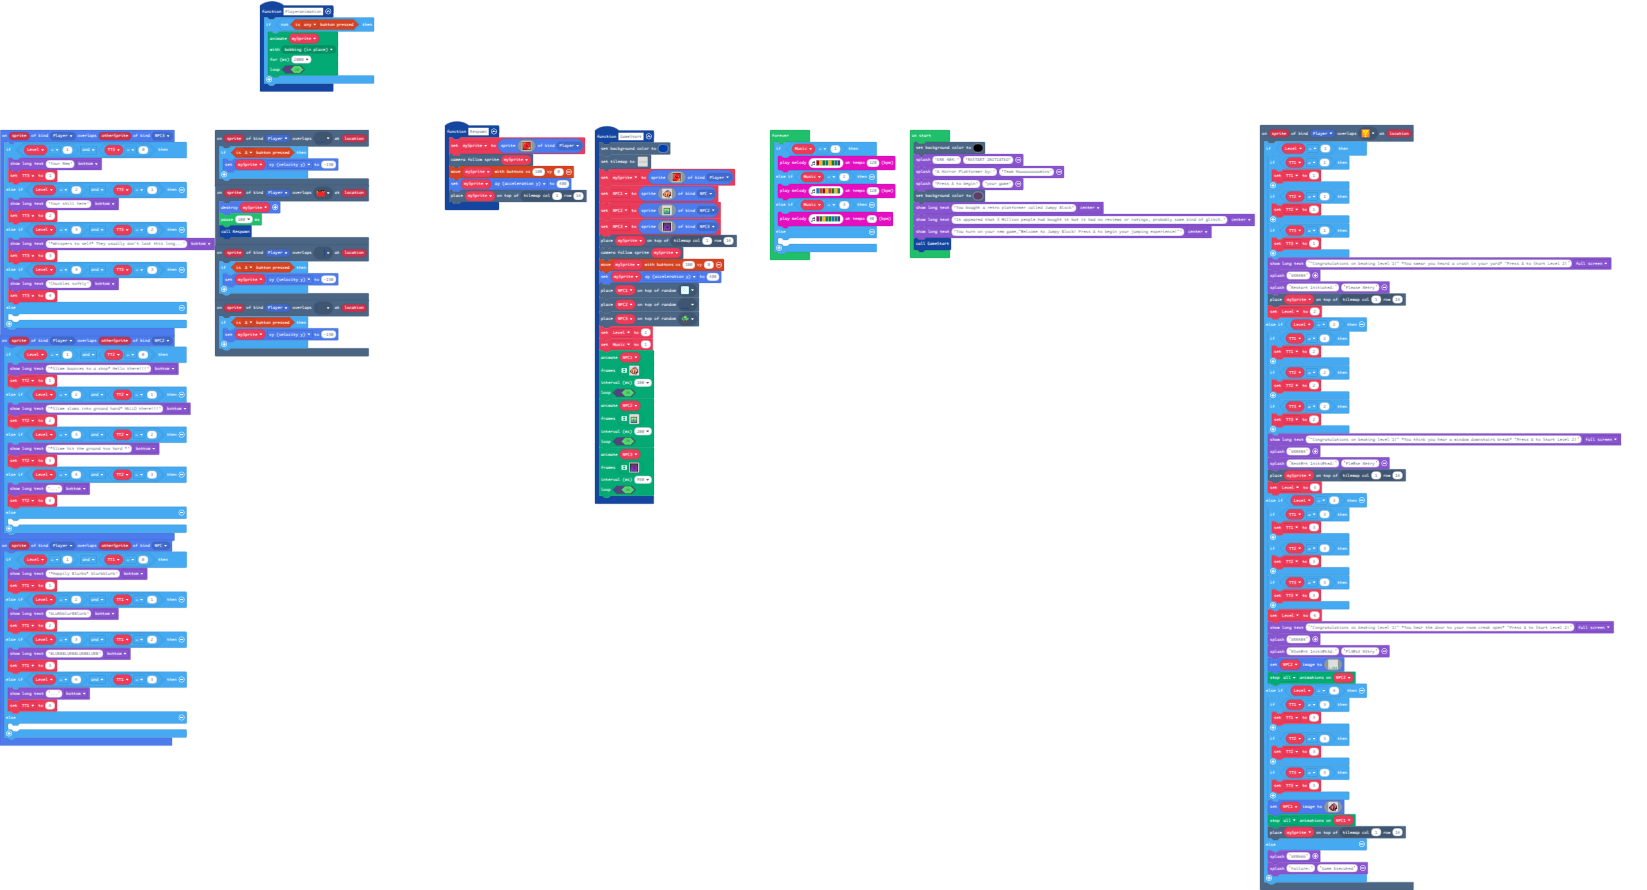
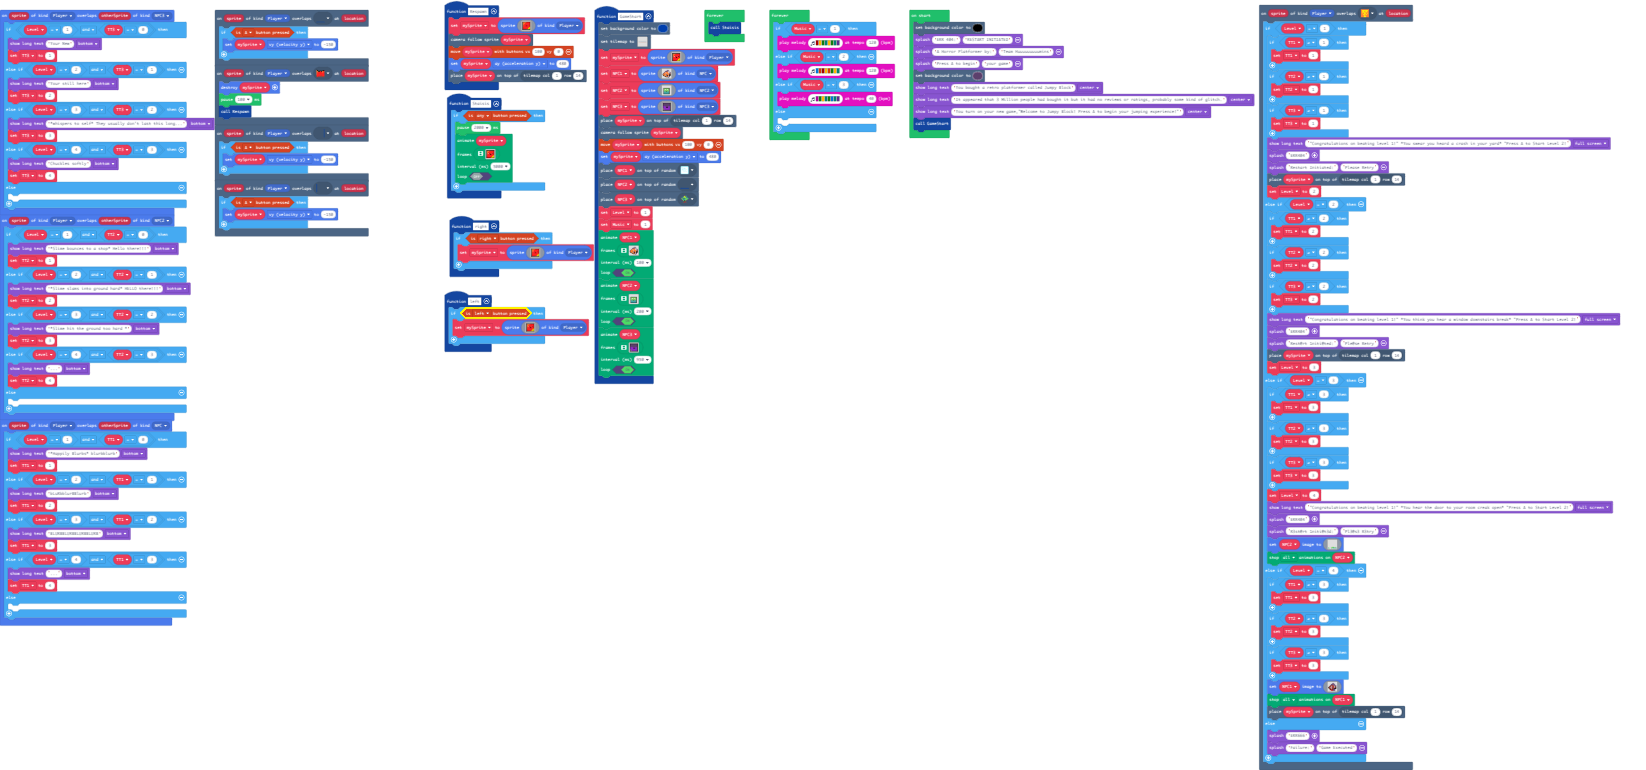
Update main.blocks, main.ts, images.g.jres, images.g.ts

Changed region(s): [[0.0, 0.0, 0.9915, 0.9974]]

diff --git a/images.g.ts b/images.g.ts
@@ -538,6 +538,129 @@ f b b a a a a a a a a a a a a f
 f b b b a a a a a a a a c c c f 
 f f f f f f f f f f f f f f f f 
 `];
+            case "myAnim1":
+            case "anim5":return [img`
+f f f f f f f f f f f f f f f f 
+f 4 4 4 4 4 4 4 2 2 2 2 2 2 2 f 
+f 4 4 4 4 2 2 2 2 2 2 2 2 2 2 f 
+f 4 4 4 4 2 2 2 2 2 2 2 2 2 2 f 
+f 4 4 2 2 2 2 2 2 2 2 2 2 2 2 f 
+f 4 4 2 2 2 2 2 2 2 2 2 2 2 2 f 
+f 4 4 2 1 f 2 2 2 2 2 1 f 2 2 f 
+f 4 2 2 2 2 2 f 2 f 2 2 2 2 2 f 
+f 4 2 2 2 2 2 f f f 2 2 2 2 2 f 
+f 4 2 2 2 2 2 2 2 2 2 2 2 2 2 f 
+f 4 2 2 2 2 2 2 2 2 2 2 2 2 5 f 
+f 2 2 2 2 2 2 2 2 2 2 2 2 5 5 f 
+f 2 2 2 2 2 2 2 2 2 2 2 5 5 5 f 
+f 2 2 2 2 2 2 2 2 2 2 2 5 5 5 f 
+f 2 2 2 2 2 2 2 2 5 5 5 5 5 5 f 
+f f f f f f f f f f f f f f f f 
+`, img`
+f f f f f f f f f f f f f f f f 
+f 4 4 4 4 4 4 4 2 2 2 2 2 2 2 f 
+f 4 4 4 4 2 2 2 2 2 2 2 2 2 2 f 
+f 4 4 4 4 2 2 2 2 2 2 2 2 2 2 f 
+f 4 4 2 2 2 2 2 2 2 2 2 2 2 2 f 
+f 4 4 2 2 2 2 2 2 2 2 2 2 2 2 f 
+f 4 4 2 f 1 2 2 2 2 2 f 1 2 2 f 
+f 4 2 2 2 2 2 f 2 f 2 2 2 2 2 f 
+f 4 2 2 2 2 2 f f f 2 2 2 2 2 f 
+f 4 2 2 2 2 2 2 2 2 2 2 2 2 2 f 
+f 4 2 2 2 2 2 2 2 2 2 2 2 2 5 f 
+f 2 2 2 2 2 2 2 2 2 2 2 2 5 5 f 
+f 2 2 2 2 2 2 2 2 2 2 2 5 5 5 f 
+f 2 2 2 2 2 2 2 2 2 2 2 5 5 5 f 
+f 2 2 2 2 2 2 2 2 5 5 5 5 5 5 f 
+f f f f f f f f f f f f f f f f 
+`];
+            case "myAnim2":
+            case "anim6":return [img`
+f f f f f f f f f f f f f f f f 
+f 4 4 4 4 4 4 4 2 2 2 2 2 2 2 f 
+f 4 4 4 4 2 2 2 2 2 2 2 2 2 2 f 
+f 4 4 4 4 2 2 2 2 2 2 2 2 2 2 f 
+f 4 4 2 2 2 2 2 2 2 2 2 2 2 2 f 
+f 4 4 2 2 2 2 2 2 2 2 2 2 2 2 f 
+f 4 4 2 1 f 2 2 2 2 2 1 f 2 2 f 
+f 4 2 2 2 2 2 f 2 f 2 2 2 2 2 f 
+f 4 2 2 2 2 2 f f f 2 2 2 2 2 f 
+f 4 2 2 2 2 2 2 2 2 2 2 2 2 2 f 
+f 4 2 2 2 2 2 2 2 2 2 2 2 2 5 f 
+f 2 2 2 2 2 2 2 2 2 2 2 2 5 5 f 
+f 2 2 2 2 2 2 2 2 2 2 2 5 5 5 f 
+f 2 2 2 2 2 2 2 2 2 2 2 5 5 5 f 
+f 2 2 2 2 2 2 2 2 5 5 5 5 5 5 f 
+f f f f f f f f f f f f f f f f 
+`, img`
+. . f f f f f f f f f f f f f f 
+. f 4 4 4 4 4 4 4 2 2 2 2 2 2 f 
+f 4 4 4 4 2 2 2 2 2 2 2 2 2 2 f 
+f 4 4 4 4 2 2 2 2 2 2 2 2 2 2 f 
+f 4 4 2 2 2 2 2 2 2 2 2 2 2 2 f 
+f 4 4 2 2 2 2 2 2 2 2 2 2 2 2 f 
+f 4 4 2 2 1 f 2 2 2 2 2 1 f 2 f 
+f 4 2 2 2 2 2 2 f 2 f 2 2 2 2 f 
+f 4 2 2 2 2 2 2 f f f 2 2 2 2 f 
+f 4 2 2 2 2 2 2 2 2 2 2 2 2 2 f 
+f 4 2 2 2 2 2 2 2 2 2 2 2 2 5 f 
+f 2 2 2 2 2 2 2 2 2 2 2 2 5 5 f 
+f 2 2 2 2 2 2 2 2 2 2 2 5 5 5 f 
+f 2 2 2 2 2 2 2 2 2 2 2 5 5 5 f 
+f 2 2 2 2 2 2 2 5 5 5 5 5 5 f . 
+f f f f f f f f f f f f f f . . 
+`, img`
+. . . f f f f f f f f f f f f f 
+. . f 4 4 4 4 4 4 4 2 2 2 2 2 f 
+. f 4 4 4 4 2 2 2 2 2 2 2 2 2 f 
+. f 4 4 4 4 2 2 2 2 2 2 2 2 2 f 
+f 4 4 2 2 2 2 2 2 2 2 2 2 2 2 f 
+f 4 4 2 2 2 2 2 2 2 2 2 2 2 2 f 
+f 4 4 2 2 2 1 f 2 2 2 2 2 1 f f 
+f 4 2 2 2 2 2 2 2 f 2 f 2 2 2 f 
+f 4 2 2 2 2 2 2 2 f f f 2 2 2 f 
+f 4 2 2 2 2 2 2 2 2 2 2 2 2 2 f 
+f 4 2 2 2 2 2 2 2 2 2 2 2 2 5 f 
+f 2 2 2 2 2 2 2 2 2 2 2 2 5 5 f 
+f 2 2 2 2 2 2 2 2 2 2 5 5 5 f . 
+f 2 2 2 2 2 2 2 2 2 2 5 5 5 f . 
+f 2 2 2 2 2 2 5 5 5 5 5 5 f . . 
+f f f f f f f f f f f f f . . . 
+`, img`
+. . f f f f f f f f f f f f f f 
+. f 4 4 4 4 4 4 4 2 2 2 2 2 2 f 
+f 4 4 4 4 2 2 2 2 2 2 2 2 2 2 f 
+f 4 4 4 4 2 2 2 2 2 2 2 2 2 2 f 
+f 4 4 2 2 2 2 2 2 2 2 2 2 2 2 f 
+f 4 4 2 2 2 2 2 2 2 2 2 2 2 2 f 
+f 4 4 2 2 1 f 2 2 2 2 2 1 f 2 f 
+f 4 2 2 2 2 2 2 f 2 f 2 2 2 2 f 
+f 4 2 2 2 2 2 2 f f f 2 2 2 2 f 
+f 4 2 2 2 2 2 2 2 2 2 2 2 2 2 f 
+f 4 2 2 2 2 2 2 2 2 2 2 2 2 5 f 
+f 2 2 2 2 2 2 2 2 2 2 2 2 5 5 f 
+f 2 2 2 2 2 2 2 2 2 2 2 5 5 5 f 
+f 2 2 2 2 2 2 2 2 2 2 2 5 5 5 f 
+f 2 2 2 2 2 2 2 5 5 5 5 5 5 f . 
+f f f f f f f f f f f f f f . . 
+`, img`
+f f f f f f f f f f f f f f f f 
+f 4 4 4 4 4 4 4 2 2 2 2 2 2 2 f 
+f 4 4 4 4 2 2 2 2 2 2 2 2 2 2 f 
+f 4 4 4 4 2 2 2 2 2 2 2 2 2 2 f 
+f 4 4 2 2 2 2 2 2 2 2 2 2 2 2 f 
+f 4 4 2 2 2 2 2 2 2 2 2 2 2 2 f 
+f 4 4 2 1 f 2 2 2 2 2 1 f 2 2 f 
+f 4 2 2 2 2 2 f 2 f 2 2 2 2 2 f 
+f 4 2 2 2 2 2 f f f 2 2 2 2 2 f 
+f 4 2 2 2 2 2 2 2 2 2 2 2 2 2 f 
+f 4 2 2 2 2 2 2 2 2 2 2 2 2 5 f 
+f 2 2 2 2 2 2 2 2 2 2 2 2 5 5 f 
+f 2 2 2 2 2 2 2 2 2 2 2 5 5 5 f 
+f 2 2 2 2 2 2 2 2 2 2 2 5 5 5 f 
+f 2 2 2 2 2 2 2 2 5 5 5 5 5 5 f 
+f f f f f f f f f f f f f f f f 
+`];
         }
         return null;
     })

diff --git a/main.ts b/main.ts
@@ -3,6 +3,11 @@ namespace SpriteKind {
     export const NPC2 = SpriteKind.create()
     export const NPC3 = SpriteKind.create()
 }
+function right () {
+    if (controller.right.isPressed()) {
+        mySprite = sprites.create(assets.image`myImage0`, SpriteKind.Player)
+    }
+}
 scene.onOverlapTile(SpriteKind.Player, assets.tile`myTile0`, function (sprite, location) {
     if (Level == 1) {
         if (TT1 != 1) {
@@ -90,6 +95,22 @@ scene.onOverlapTile(SpriteKind.Player, assets.tile`tile14`, function (sprite, lo
         mySprite.vy = -150
     }
 })
+function Staisis () {
+    if (controller.anyButton.isPressed()) {
+        pause(2000)
+        animation.runImageAnimation(
+        mySprite,
+        assets.animation`myAnim1`,
+        5000,
+        false
+        )
+    }
+}
+function left () {
+    if (controller.left.isPressed()) {
+        mySprite = sprites.create(assets.image`myImage0`, SpriteKind.Player)
+    }
+}
 sprites.onOverlap(SpriteKind.Player, SpriteKind.NPC2, function (sprite, otherSprite) {
     if (Level == 1 && TT2 == 0) {
         game.showLongText("*Slime bounces to a stop* Hello there!!!", DialogLayout.Bottom)
@@ -129,16 +150,6 @@ sprites.onOverlap(SpriteKind.Player, SpriteKind.NPC3, function (sprite, otherSpr
     	
     }
 })
-function Playeranimation () {
-    if (!(controller.anyButton.isPressed())) {
-        animation.runMovementAnimation(
-        mySprite,
-        animation.animationPresets(animation.bobbing),
-        2000,
-        true
-        )
-    }
-}
 scene.onOverlapTile(SpriteKind.Player, assets.tile`tile11`, function (sprite, location) {
     if (controller.A.isPressed()) {
         mySprite.vy = -150
@@ -195,11 +206,11 @@ let Music = 0
 let NPC3: Sprite = null
 let NPC1: Sprite = null
 let NPC2: Sprite = null
-let mySprite: Sprite = null
 let TT3 = 0
 let TT2 = 0
 let TT1 = 0
 let Level = 0
+let mySprite: Sprite = null
 scene.setBackgroundColor(15)
 game.splash("ERR 404:", "RESTART INITIATED")
 game.splash("A Horror Platformer by:", "Team Huuuuuuuuumins")
@@ -209,6 +220,9 @@ game.showLongText("You bought a retro platformer called Jumpy Block", DialogLayo
 game.showLongText("It appeared that 3 Million people had bought it but it had no reviews or ratings, probably some kind of glitch.", DialogLayout.Center)
 game.showLongText("You turn on your new game,\"Welcome to Jumpy Block! Press A to begin your jumping experience!\"", DialogLayout.Center)
 GameStart()
+forever(function () {
+    Staisis()
+})
 forever(function () {
     if (Music == 1) {
         music.playMelody("C5 A G F A G F D ", 120)
